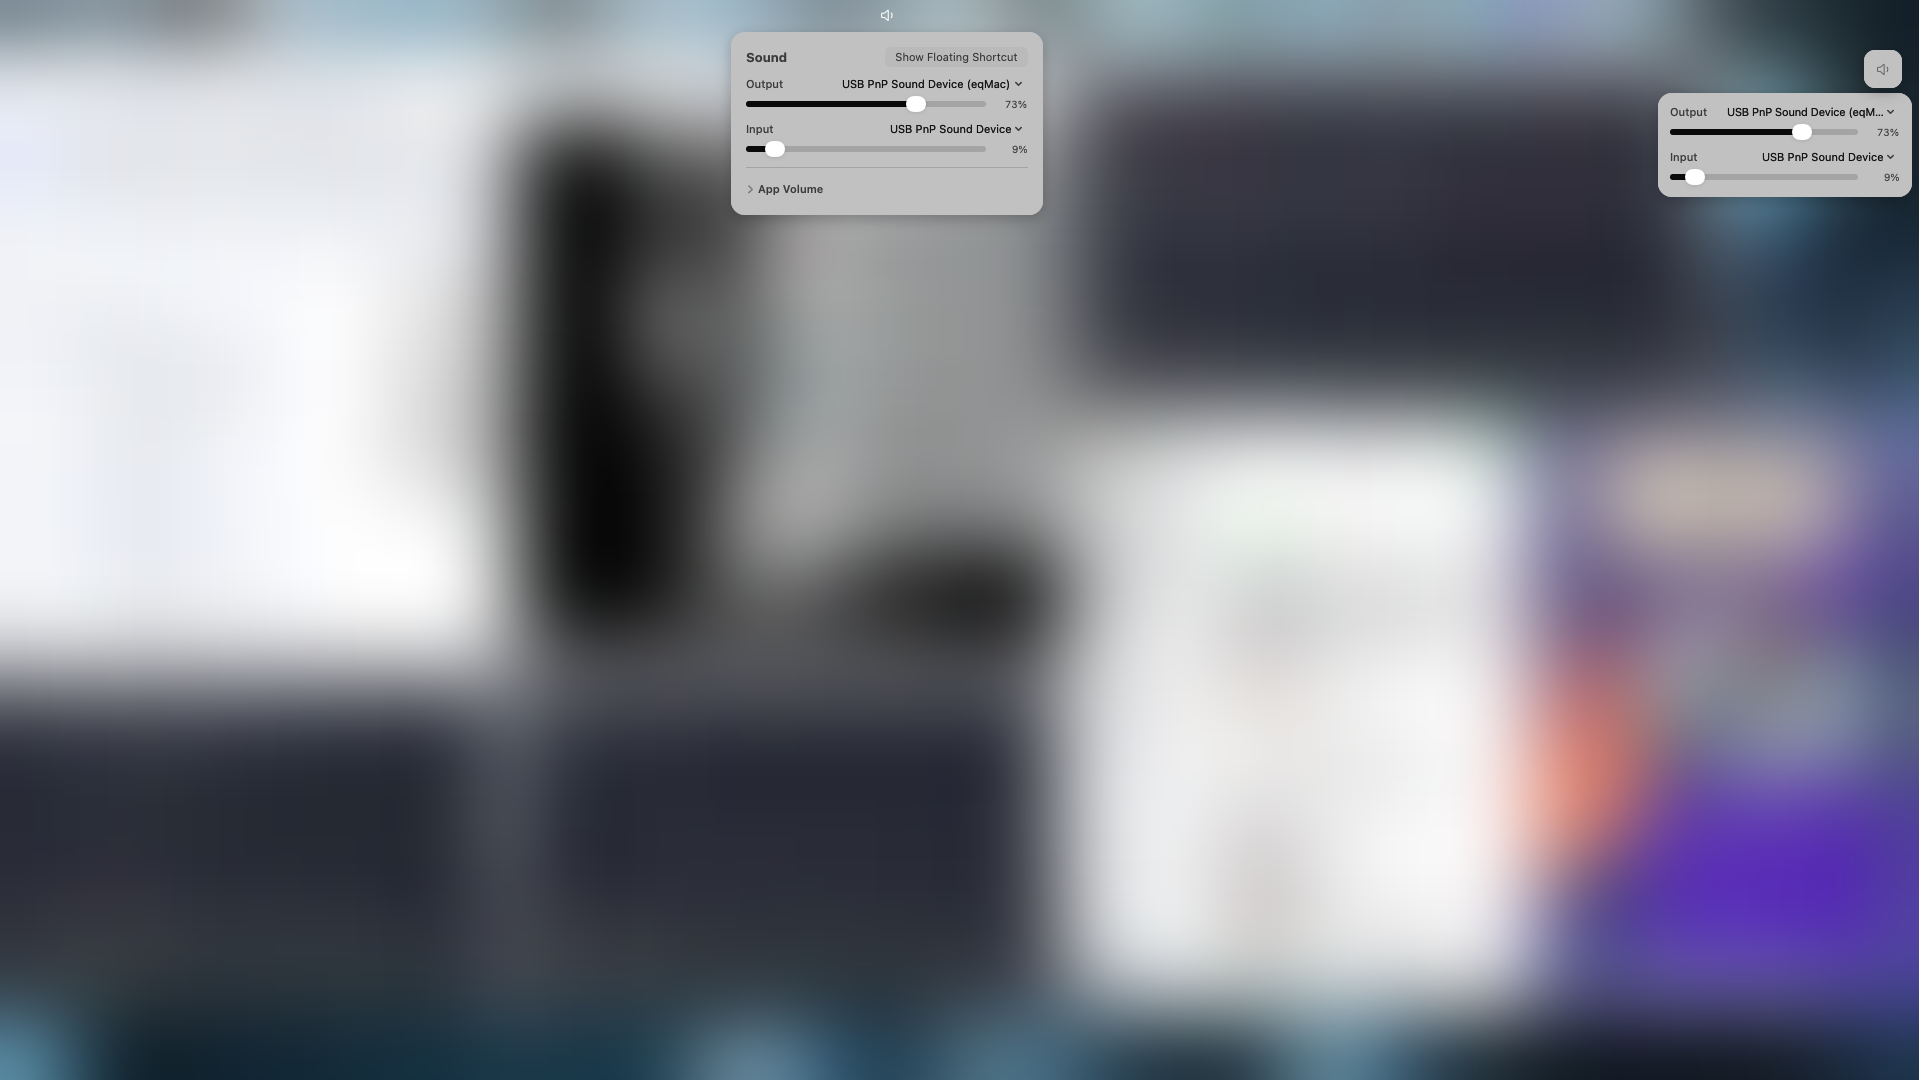
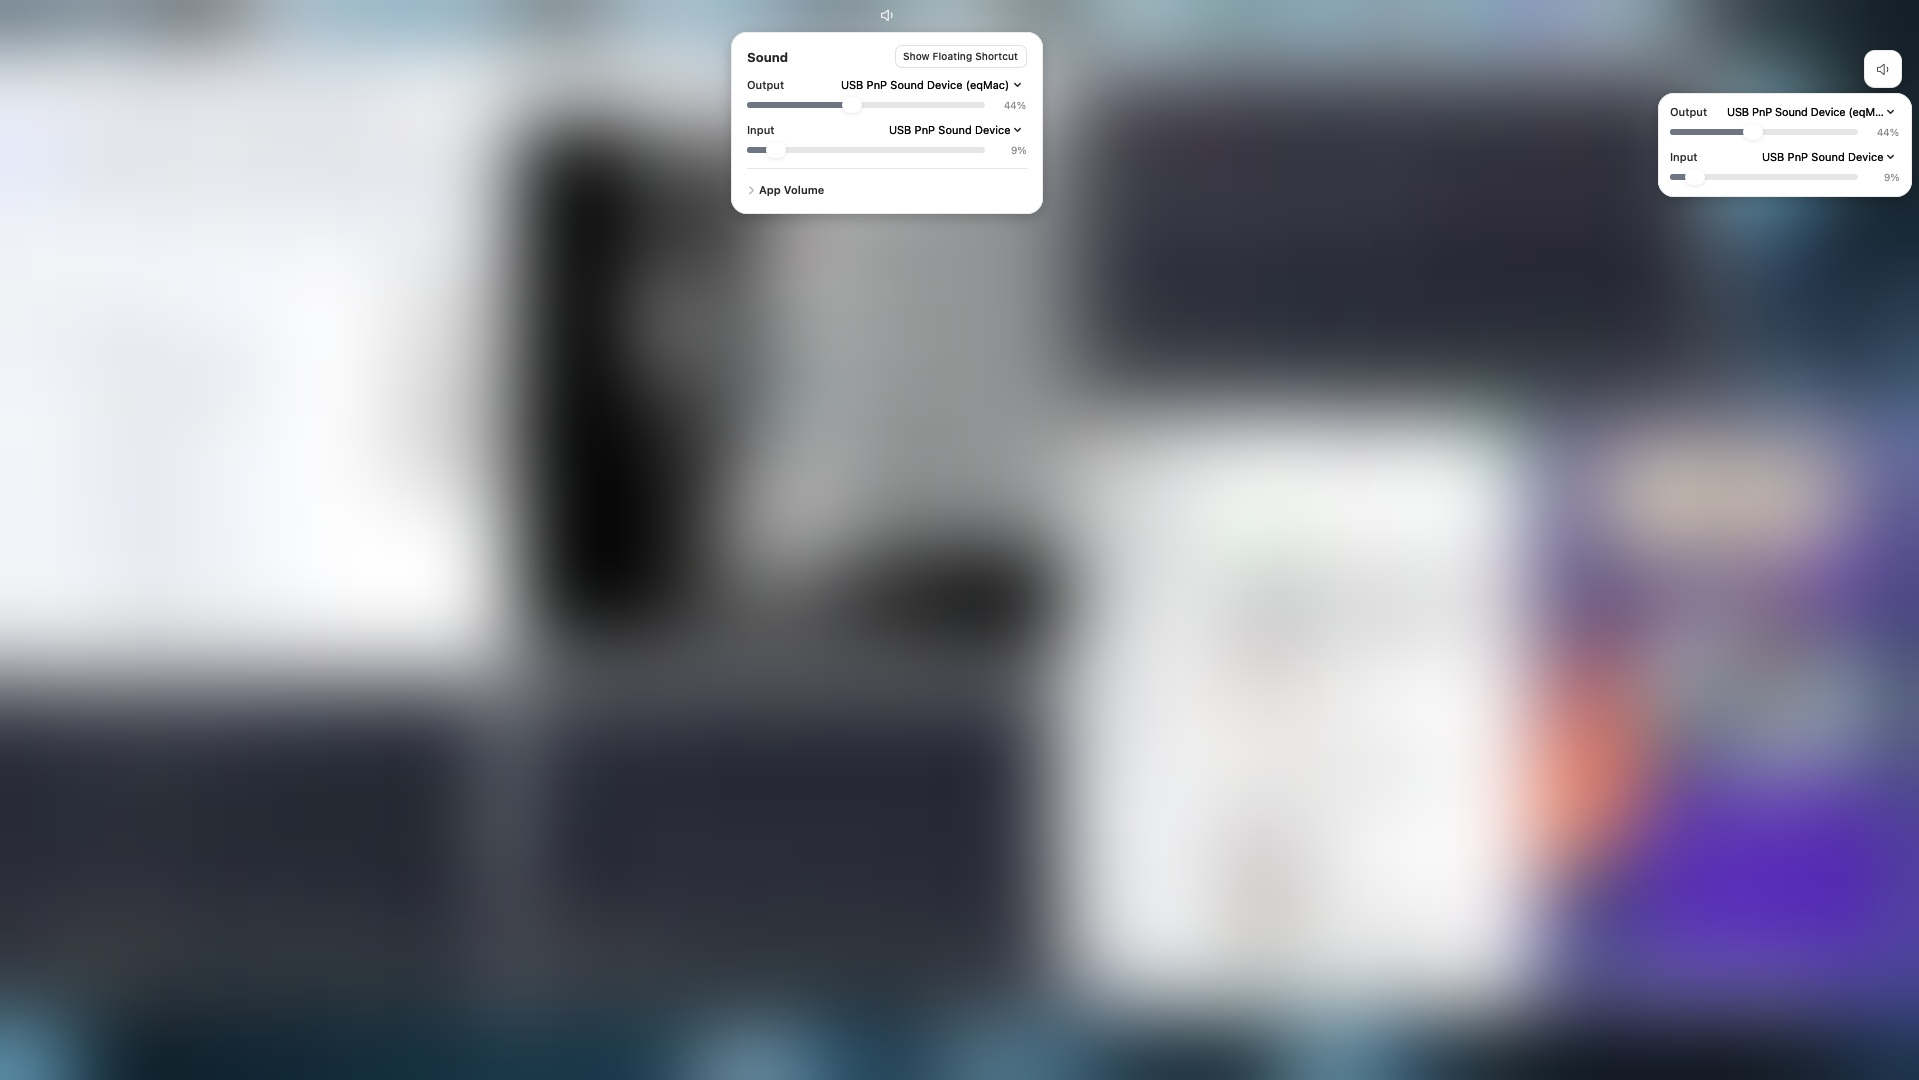
Give VolumeMac 0.7 a clean white mixer

Changed region(s): [[0.3689, 0.0306, 0.5534, 0.2139], [0.8609, 0.0306, 1.0, 0.1833]]

diff --git a/Sources/VolumeMac.swift b/Sources/VolumeMac.swift
@@ -96,14 +96,7 @@ final class VolumeMacDelegate: NSObject, NSApplicationDelegate {
         mixer.isReleasedWhenClosed = false
         mixer.collectionBehavior = [.fullScreenAuxiliary, .ignoresCycle]
         mixer.dismiss = { [weak self] in self?.closeMixer() }
-        let material = MixerSurface()
-        material.focusRingType = .none
-        material.material = .popover
-        material.blendingMode = .behindWindow
-        material.state = .active
-        material.wantsLayer = true
-        material.layer?.cornerRadius = 14
-        material.layer?.masksToBounds = true
+        let surface = MixerSurface(frame: .zero, cornerRadius: 16)
         let content = NSHostingView(rootView: MixerPanel(model: model, measure: { [weak self] height in
             guard let self, height > 0, abs(height - self.contentHeight) > 0.5 else { return }
             self.contentHeight = height
@@ -113,15 +106,15 @@ final class VolumeMacDelegate: NSObject, NSApplicationDelegate {
         }))
         content.sizingOptions = []
         content.translatesAutoresizingMaskIntoConstraints = false
-        material.addSubview(content)
+        surface.addSubview(content)
         NSLayoutConstraint.activate([
-            content.leadingAnchor.constraint(equalTo: material.leadingAnchor),
-            content.trailingAnchor.constraint(equalTo: material.trailingAnchor),
-            content.topAnchor.constraint(equalTo: material.topAnchor),
-            content.bottomAnchor.constraint(equalTo: material.bottomAnchor)
+            content.leadingAnchor.constraint(equalTo: surface.leadingAnchor),
+            content.trailingAnchor.constraint(equalTo: surface.trailingAnchor),
+            content.topAnchor.constraint(equalTo: surface.topAnchor),
+            content.bottomAnchor.constraint(equalTo: surface.bottomAnchor)
         ])
-        mixer.contentView = material
-        mixer.initialFirstResponder = material
+        mixer.contentView = surface
+        mixer.initialFirstResponder = surface
         NotificationCenter.default.addObserver(
             self, selector: #selector(repositionVisibleMixer),
             name: NSApplication.didChangeScreenParametersNotification, object: nil
@@ -195,7 +188,21 @@ enum ShortcutMixerLayout {
     }
 }
 
-private final class MixerSurface: NSVisualEffectView {
+private final class MixerSurface: NSView {
+    init(frame: NSRect, cornerRadius: CGFloat) {
+        super.init(frame: frame)
+        appearance = NSAppearance(named: .aqua)
+        focusRingType = .none
+        wantsLayer = true
+        layer?.backgroundColor = NSColor.white.cgColor
+        layer?.cornerRadius = cornerRadius
+        layer?.masksToBounds = true
+        layer?.borderWidth = 1
+        layer?.borderColor = NSColor(white: 0, alpha: 0.08).cgColor
+    }
+
+    required init?(coder: NSCoder) { nil }
+
     override var acceptsFirstResponder: Bool { true }
 }
 
@@ -319,13 +326,7 @@ final class MixerModel: NSObject, ObservableObject {
             panel.hasShadow = true
             panel.collectionBehavior = [.canJoinAllSpaces, .fullScreenAuxiliary, .ignoresCycle]
 
-            let surround = NSVisualEffectView(frame: NSRect(x: 0, y: 0, width: side, height: side))
-            surround.material = .popover
-            surround.blendingMode = .behindWindow
-            surround.state = .active
-            surround.wantsLayer = true
-            surround.layer?.cornerRadius = 11
-            surround.layer?.masksToBounds = true
+            let surround = MixerSurface(frame: NSRect(x: 0, y: 0, width: side, height: side), cornerRadius: 11)
 
             let shortcut = FloatingShortcutIcon(frame: surround.bounds)
             shortcut.onPress = { [weak self] view in self?.toggleShortcutControls(view) }
@@ -393,26 +394,19 @@ final class MixerModel: NSObject, ObservableObject {
         controls.collectionBehavior = [.canJoinAllSpaces, .fullScreenAuxiliary, .ignoresCycle]
         controls.dismiss = { [weak self] in self?.closeShortcutControls() }
 
-        let material = MixerSurface()
-        material.focusRingType = .none
-        material.material = .popover
-        material.blendingMode = .behindWindow
-        material.state = .active
-        material.wantsLayer = true
-        material.layer?.cornerRadius = 14
-        material.layer?.masksToBounds = true
+        let surface = MixerSurface(frame: .zero, cornerRadius: 16)
 
         let host = NSHostingView(rootView: FloatingMixer(model: self))
         host.translatesAutoresizingMaskIntoConstraints = false
-        material.addSubview(host)
+        surface.addSubview(host)
         NSLayoutConstraint.activate([
-            host.leadingAnchor.constraint(equalTo: material.leadingAnchor),
-            host.trailingAnchor.constraint(equalTo: material.trailingAnchor),
-            host.topAnchor.constraint(equalTo: material.topAnchor),
-            host.bottomAnchor.constraint(equalTo: material.bottomAnchor)
+            host.leadingAnchor.constraint(equalTo: surface.leadingAnchor),
+            host.trailingAnchor.constraint(equalTo: surface.trailingAnchor),
+            host.topAnchor.constraint(equalTo: surface.topAnchor),
+            host.bottomAnchor.constraint(equalTo: surface.bottomAnchor)
         ])
-        controls.contentView = material
-        controls.initialFirstResponder = material
+        controls.contentView = surface
+        controls.initialFirstResponder = surface
         floatingControls = controls
         floatingControlsHost = host
     }
@@ -461,7 +455,7 @@ struct MixerPanel: View {
 
     var body: some View {
         ScrollView {
-            content.padding(15)
+            content.padding(.horizontal, 16).padding(.vertical, 13)
                 .frame(maxWidth: .infinity, alignment: .leading)
                 .background(GeometryReader { geometry in
                     Color.clear.preference(key: MixerHeightKey.self, value: geometry.size.height)
@@ -477,7 +471,7 @@ struct MixerPanel: View {
                 Text("Sound").font(.headline)
                 Spacer()
                 Button(model.floating ? "Hide Floating Shortcut" : "Show Floating Shortcut") { model.toggleFloatingPanel() }
-                    .controlSize(.small)
+                    .buttonStyle(ShortcutButtonStyle())
                     .help(model.floating ? "Hide the floating volume shortcut" : "Show a floating volume shortcut")
             }
             DeviceControls(model: model, direction: .output)
@@ -502,6 +496,19 @@ struct MixerPanel: View {
                 Text("App Volume").font(.subheadline.weight(.semibold))
             }
         }
+    }
+}
+
+private struct ShortcutButtonStyle: ButtonStyle {
+    func makeBody(configuration: Configuration) -> some View {
+        configuration.label
+            .font(.caption.weight(.medium))
+            .padding(.horizontal, 8)
+            .padding(.vertical, 5)
+            .background(configuration.isPressed ? Color.black.opacity(0.06) : .white, in: RoundedRectangle(cornerRadius: 7))
+            .overlay {
+                RoundedRectangle(cornerRadius: 7).strokeBorder(Color.black.opacity(0.12))
+            }
     }
 }
 
@@ -617,6 +624,8 @@ private struct FloatingMixer: View {
     }
 }
 
+private let mixerSliderTint = Color(red: 0.48, green: 0.52, blue: 0.57)
+
 private struct DeviceControls: View {
     @ObservedObject var model: MixerModel
     let direction: AudioDirection
@@ -648,6 +657,7 @@ private struct DeviceControls: View {
                 HStack(spacing: 8) {
                     Slider(value: Binding(get: { state.volume ?? volume },
                                           set: { model.changeLevel($0, direction: direction) }), in: 0...1)
+                        .tint(mixerSliderTint)
                         .accessibilityLabel(direction.levelTitle)
                     VolumeValue(volume: volume)
                 }
@@ -679,6 +689,7 @@ private struct AppVolumeRow: View {
                 }
                 HStack(spacing: 6) {
                     Slider(value: Binding(get: { volume }, set: { model.changeApp(app, volume: $0) }), in: 0...1)
+                        .tint(mixerSliderTint)
                         .accessibilityLabel("Volume for \(app.name)")
                     VolumeValue(volume: volume)
                     Button { model.toggleMute(app) } label: {

diff --git a/README.md b/README.md
@@ -1,6 +1,6 @@
 # VolumeMac
 
-A compact macOS menu bar mixer for switching audio devices, adjusting output volume and microphone gain, and controlling apps individually.
+A compact macOS menu bar mixer for switching audio devices, adjusting output volume and microphone gain, and controlling apps individually. Version 0.7 uses a white mixer and floating shortcut with softer slider tracks.
 
 ## Controls
 
